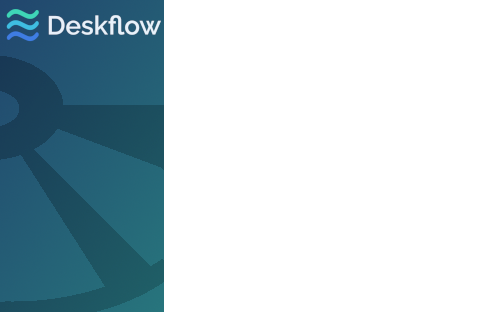
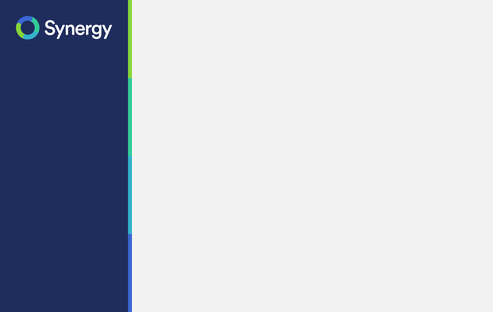
refactor(tree): extra/deploy 迁入 deploy/，wix 图择一、引用与 REUSE 同步
- 11 个文件迁入 deploy/：PackageFileName.cmake、linux 的 desktop/metainfo/flatpak*、
  mac 的 bundle icns/codesign/dmg-background/eula、windows 的 wix 图
- wix-banner/dialog 采用 Synergy 品牌版（deploy/ 下旧版为 Deskflow 上游残留，已替换）
- 删除孤儿 extra/deploy/windows/wix-dialog.svg（零引用）
- 引用重指：deploy/CMakeLists、linux/mac/windows deploy.cmake、gui CMakeLists、
  Synergy.cmake 注释、ci.yml（5 处）、flatpak 清单相对路径 ../../../../ 改为 ../../../、
  docs/build.md 中英各两处
- REUSE.toml 补登：bundle icns/dmg-background.tiff（GPL-2.0-only）、
  synergy-eula.txt/ci-build-lint-exceptions.json（MIT）
- 验证：scripts\build.bat release EXIT=0（PackageFileName 随配置解析）；ctest 32/32

Changed region(s): [[0.0, 0.0, 0.3347, 1.0], [0.0, 0.2885, 0.0609, 0.4038]]

diff --git a/docs/build.md b/docs/build.md
@@ -180,8 +180,8 @@ cmake --build build --config Release -j$(nproc)
 | **Windows** | 7Z (portable), MSI (WiX, see note) |
 
 > **Note**: AppImage is not implemented — no `appimage` reference exists in
-> `deploy/`, `extra/` or `.github/`. A Flatpak manifest exists under
-> `extra/deploy/linux/flatpak/` and is consumed by the CI `build-flatpak`
+> `deploy/` or `.github/`. A Flatpak manifest exists under
+> `deploy/linux/flatpak/` and is consumed by the CI `build-flatpak`
 > job; the local `package` target does not produce a Flatpak bundle.
 > MSI generation uses the WiX toolset installed on the machine (CI pins
 > 5.0.2; CPack requests the WiX v4 schema). See `docs/HANDOFF.md` for
@@ -415,7 +415,7 @@ cmake --build build --config Release -j$(nproc)
 | **macOS** | DMG (DragNDrop) |
 | **Windows** | 7Z（便携）、MSI (WiX，见说明) |
 
-> **说明**：AppImage **未实现** —— `deploy/`、`extra/`、`.github/` 中不存在任何 `appimage` 引用。Flatpak 清单位于 `extra/deploy/linux/flatpak/`，由 CI 的 `build-flatpak` job 消费；本地 `package` 目标不产出 Flatpak 包。MSI 使用机器上已安装的 WiX（CI 固定 5.0.2；CPack 请求 WiX v4 schema）。验证状态见 `docs/HANDOFF.md`。
+> **说明**：AppImage **未实现** —— `deploy/`、`.github/` 中不存在任何 `appimage` 引用。Flatpak 清单位于 `deploy/linux/flatpak/`，由 CI 的 `build-flatpak` job 消费；本地 `package` 目标不产出 Flatpak 包。MSI 使用机器上已安装的 WiX（CI 固定 5.0.2；CPack 请求 WiX v4 schema）。验证状态见 `docs/HANDOFF.md`。
 
 ---
 
